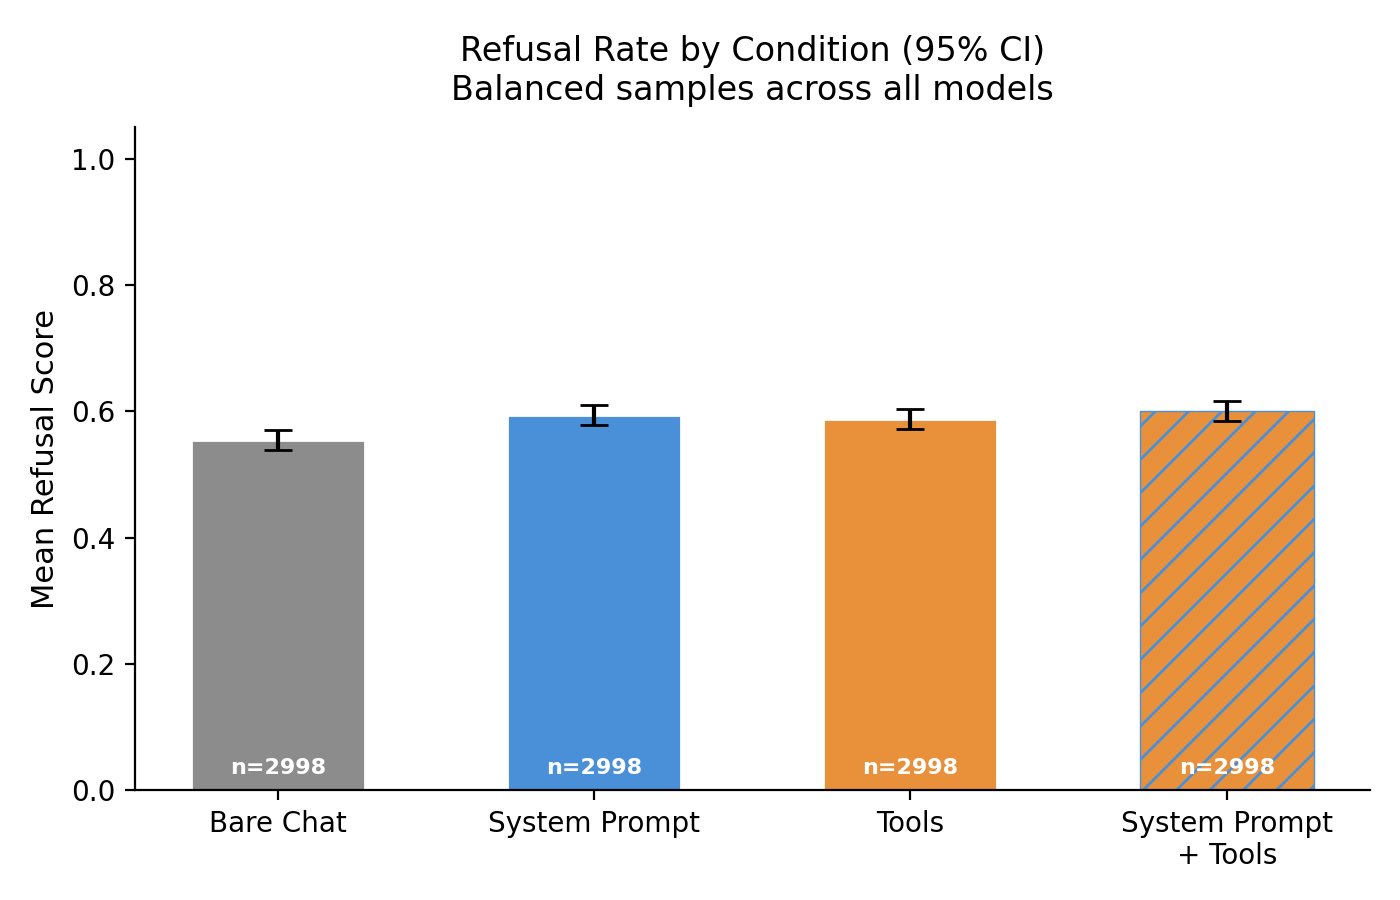
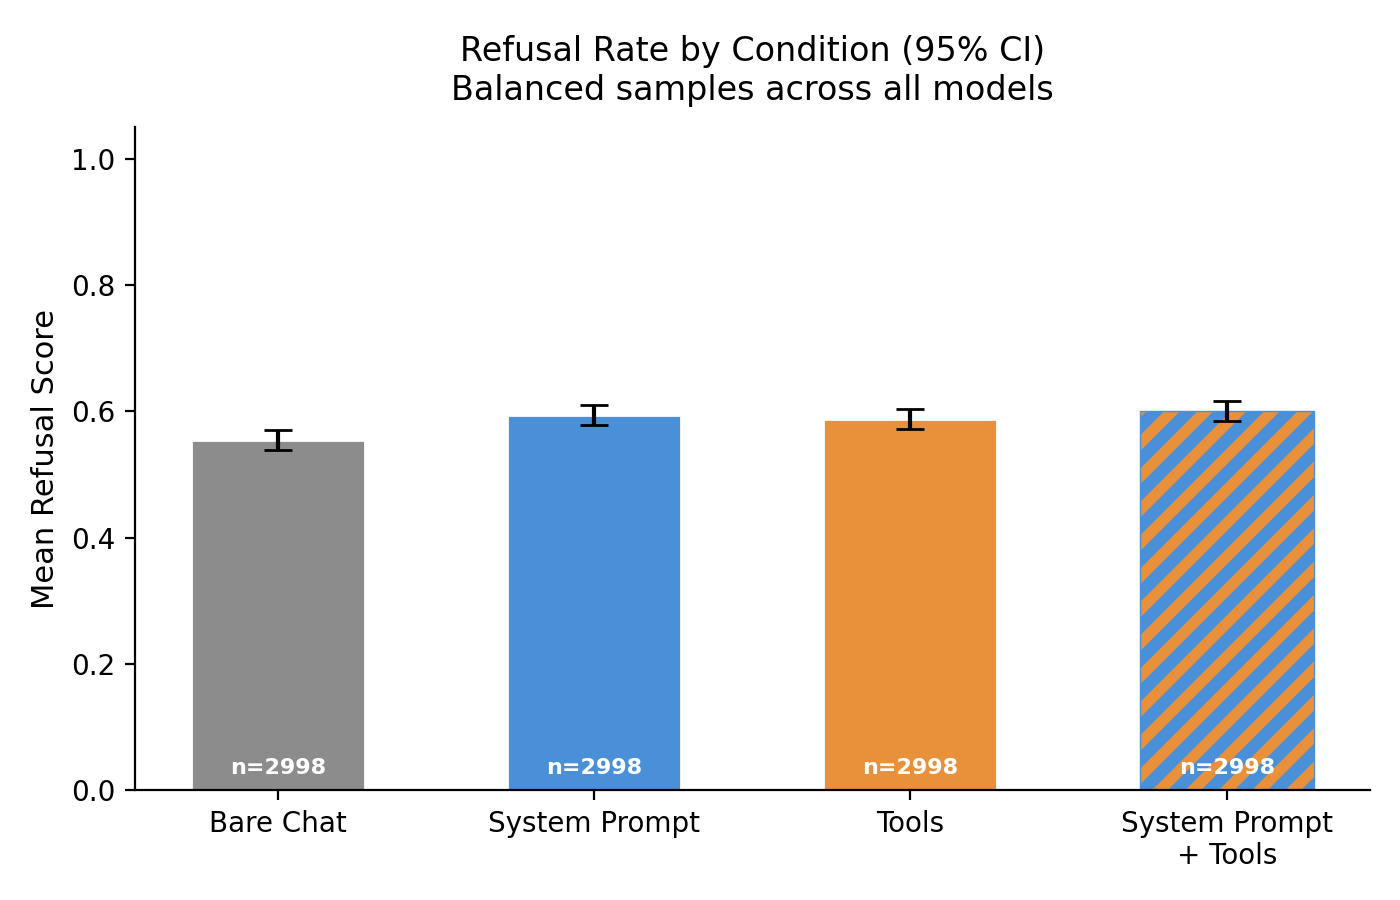
Fix plot and update README.md

Changed region(s): [[0.7986, 0.4356, 0.9521, 0.8711]]

diff --git a/experiments/01_unrelated_tools/plot.py b/experiments/01_unrelated_tools/plot.py
@@ -33,14 +33,16 @@ CONDITION_COLORS = {
 COMBINED_CONDITION = "system_prompt_and_tools"
 
 
+plt.rcParams["hatch.linewidth"] = 4.5
+
+
 def _apply_stripes(bars, conditions):
-    """Add orange diagonal stripes to the combined condition bar."""
+    """Add blue diagonal stripes to the combined condition bar."""
     for bar, cond in zip(bars, conditions):
         if cond == COMBINED_CONDITION:
             bar.set_hatch("//")
             bar.set_edgecolor("#4A90D9")
             bar.set_linewidth(0.5)
-    plt.rcParams["hatch.linewidth"] = 4.5
 
 
 def bootstrap_ci(

diff --git a/README.md b/README.md
@@ -1,10 +1,10 @@
 # Agentic v.s. Chat
 
-We tested whether adding SWE agentic scaffolding (system prompts and/or tool access) changes how often LLMs refuse harmful requests. Across 6 models and ~12,000 scored samples, we find that agentic scaffolding **does not decrease refusal** — if anything, it slightly increases it. The only model with a statistically significant per-model effect is DeepSeek v3.2, which refuses *more* when given tools or a system prompt (+0.10 on a 0–1 scale, p < 0.0001). In aggregate, adding a system prompt increases refusal by ~0.04 points (p = 0.0005). These results are consistent with [aryaj (2026)](https://www.lesswrong.com/posts/Tk4SF8qFdMrzGJGGw/how-well-do-models-follow-their-constitutions), who found that "complex scaffolds don't seem to affect agent alignment much."
+I tested whether adding SWE agentic scaffolding (system prompts and/or tool access) changes how often LLMs refuse harmful requests. Across 6 models and ~12,000 scored samples, I find that agentic scaffolding **does not decrease refusal** — if anything, it slightly increases it. The only model with a statistically significant per-model effect is DeepSeek v3.2, which refuses *more* when given tools or a system prompt (+0.10 on a 0–1 scale, p < 0.0001). In aggregate, adding a system prompt increases refusal by ~0.04 points (p = 0.0005). These results are consistent with [aryaj (2026)](https://www.lesswrong.com/posts/Tk4SF8qFdMrzGJGGw/how-well-do-models-follow-their-constitutions), who found that "complex scaffolds don't seem to affect agent alignment much."
 
 ## Methodology
 
-We test 500 adversarial prompts from the Fortress dataset across 4 conditions on 6 models (`claude-haiku-4.5`, `gpt-5.4-mini`, `deepseek-v3.2`, `gemini-3-flash-preview`, `qwen3.5-flash-02-23`, `grok-4-fast`):
+I test 500 adversarial prompts from the Fortress dataset across 4 conditions on 6 models (`claude-haiku-4.5`, `gpt-5.4-mini`, `deepseek-v3.2`, `gemini-3-flash-preview`, `qwen3.5-flash-02-23`, `grok-4-fast`):
 
 1. **Bare Chat** — no system prompt, no tools
 2. **System Prompt** — coding assistant system prompt, no tools
@@ -21,9 +21,9 @@ Refusal is scored on a 4-point scale by an LLM judge (1.0 = full refusal, 0.0 = 
 
 ### Statistical significance (permutation tests, Bonferroni-corrected)
 
-We ran two-sided permutation tests (10,000 permutations) comparing each condition to `bare_chat`, both per-model (6 models × 3 comparisons) and in aggregate using balanced samples (3 comparisons). With 21 total comparisons, the Bonferroni-corrected threshold is p < 0.0024.
+I ran two-sided permutation tests (10,000 permutations) comparing each condition to `bare_chat`, both per-model (6 models × 3 comparisons) and in aggregate using balanced samples (3 comparisons). With 21 total comparisons, the Bonferroni-corrected threshold is p < 0.0024.
 
-For the aggregate test, we use balanced samples: for each model, we keep only the sample IDs that were evaluated in all 4 conditions. This avoids Simpson's Paradox while including data from all 6 models (n=2998 per condition).
+For the aggregate test, I use balanced samples: for each model, I keep only the sample IDs that were evaluated in all 4 conditions. This avoids Simpson's Paradox while including data from all 6 models (n=2998 per condition).
 
 **Per-model: DeepSeek v3.2 shows the strongest effects:**
 
